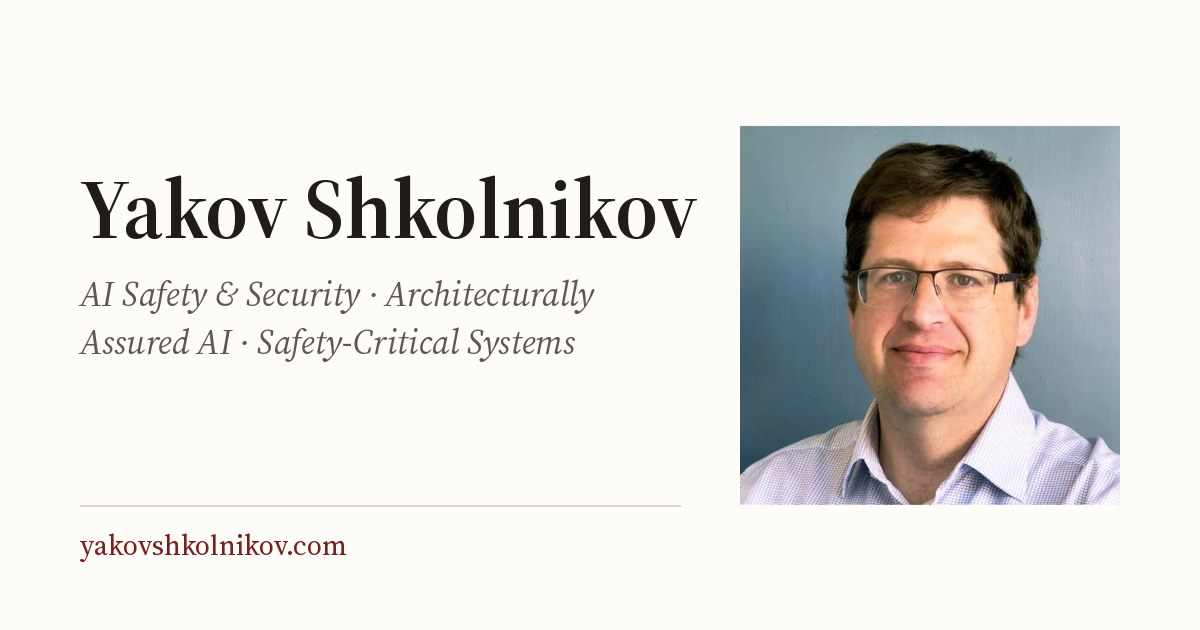
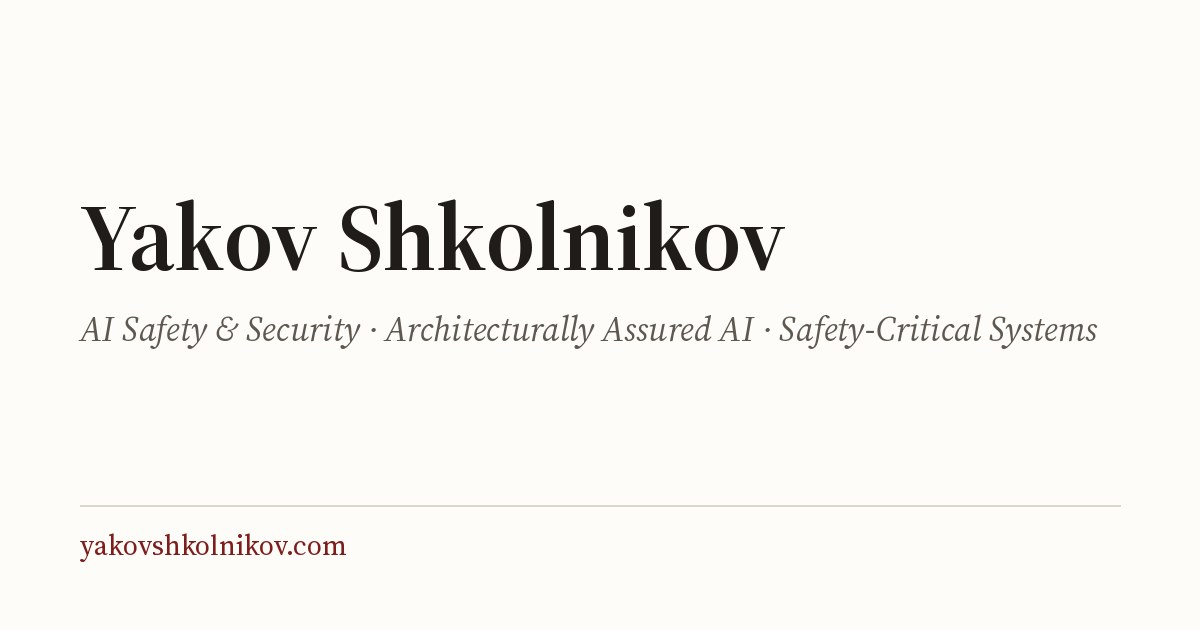
Share card: name and headline only, no photo

Changed region(s): [[0.0617, 0.181, 0.9558, 0.8143]]

diff --git a/tools/build.py b/tools/build.py
@@ -144,7 +144,7 @@ def og_crop(pic):
 
 
 def site_card():
-    """Stable 1200x630 share card: name, headline, headshot, in the site's own typeface."""
+    """Stable 1200x630 share card: name and headline in the site's own typeface."""
     import io
     from fontTools.ttLib import TTFont
     from PIL import ImageDraw, ImageFont
@@ -161,25 +161,23 @@ def site_card():
 
     card = Image.new("RGB", (OG_W, OG_H), "#fdfcf9")
     d = ImageDraw.Draw(card)
-    name = font("source-serif-4-normal-latin.woff2", 84, 640)
+    name = font("source-serif-4-normal-latin.woff2", 96, 640)
     head = font("source-serif-4-italic-latin.woff2", 34, 400)
     small = font("source-serif-4-normal-latin.woff2", 28, 400)
-    x, y = 80, 150
+    x, y = 80, 170
     d.text((x, y), profile["name"], font=name, fill="#1f1c19")
-    y += 120
+    y += 135
     line = ""
     for word in profile["headline"].split():
         test = f"{line} {word}".strip()
-        if d.textlength(test, font=head) > 600:
+        if d.textlength(test, font=head) > OG_W - 160:
             d.text((x, y), line, font=head, fill="#5f5851")
             y, line = y + 48, word
         else:
             line = test
     d.text((x, y), line, font=head, fill="#5f5851")
-    d.line((x, 505, x + 600, 505), fill="#dcd6cc", width=2)
+    d.line((x, 505, OG_W - 80, 505), fill="#dcd6cc", width=2)
     d.text((x, 525), SITE_URL.replace("https://", ""), font=small, fill="#7f1d1d")
-    shot = Image.open(ROOT / profile["portrait"]["src"].lstrip("/")).convert("RGB").resize((380, 380), Image.LANCZOS)
-    card.paste(shot, (OG_W - 80 - 380, (OG_H - 380) // 2))
     out = ROOT / "assets" / "og-card.jpg"
     card.save(out, "JPEG", quality=88, optimize=True, progressive=True)
     return "/assets/og-card.jpg"
